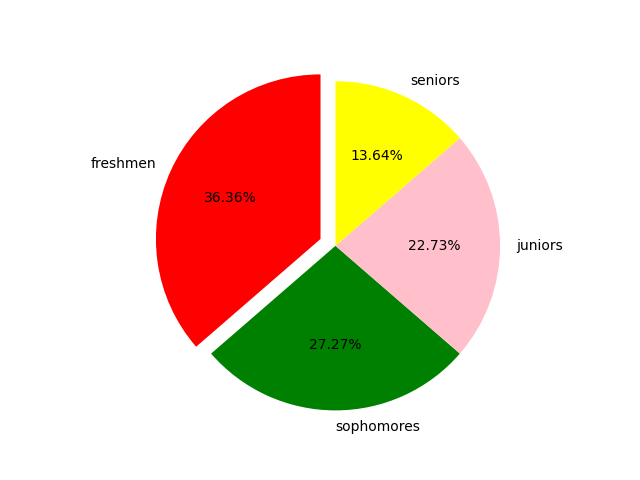
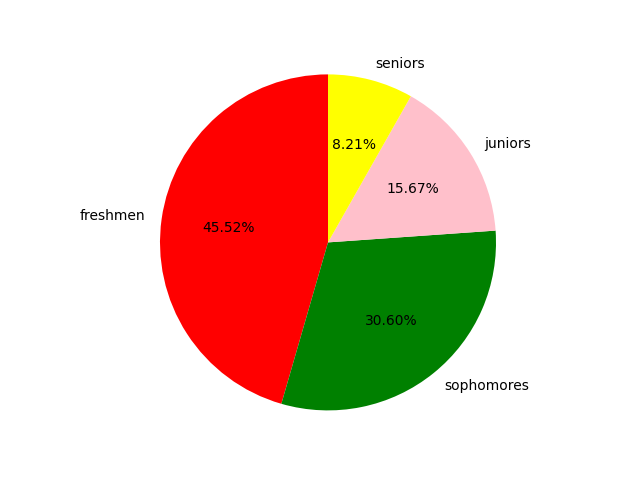
hi

diff --git a/main.py b/main.py
@@ -1,9 +1,9 @@
 import matplotlib.pyplot as plot
 # set up your lists
-numlist = [8, 6, 5, 3]
+numlist = [18.3, 12.3, 6.3, 3.3]
 namelist = ['freshmen', 'sophomores', 'juniors', 'seniors']
 colorlist = ['red', 'green', 'pink', 'yellow' ]
-explodelist = [0.1, 0.0, 0.0, 0.0]
+explodelist = [0.0, 0.0, 0.0, 0.0]
 # make the pie chart
 plot.pie(numlist, labels=namelist, autopct='%.2f%%', colors=colorlist,
     	explode = explodelist, startangle = 90)
